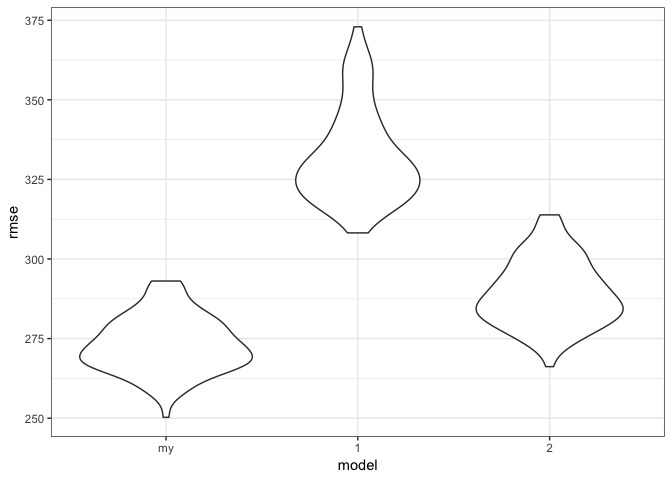
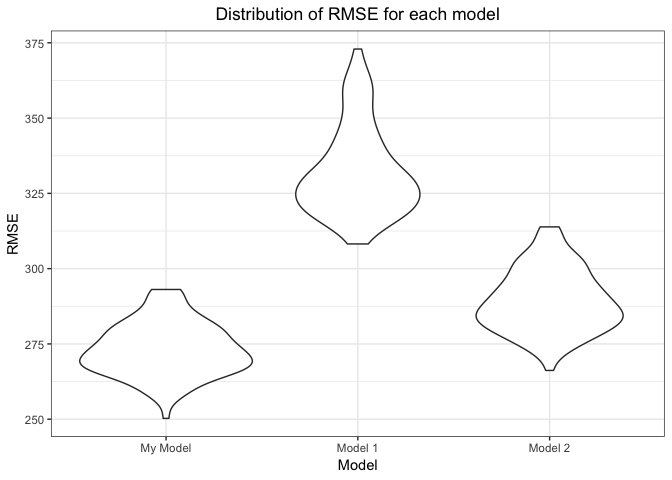
Make a violin plot to show the distribution of rmse for each model.

diff --git a/p8105_hw6_kz2334.md b/p8105_hw6_kz2334.md
@@ -542,11 +542,11 @@ birth_select %>%
   ggplot(aes(x = pred, y = resid)) + geom_point()
 ```
 
-![](p8105_hw6_kz2334_files/figure-markdown_github/2.5-1.png)
+<img src="p8105_hw6_kz2334_files/figure-markdown_github/2.5-1.png" style="display: block; margin: auto;" />
 
 #### Model comparison
 
-Split train and test sets for cross validation.
+Split train and test sets for 100 times cross validation.
 
 ``` r
 cv_df = 
@@ -569,15 +569,24 @@ cv_df_result =
          rmse_2 = map2_dbl(mod_2, test, ~rmse(model = .x, data = .y)))
 ```
 
-Make a plot to show the distribution of rmseeach model.
+------------------------------------------------------------------------
+
+Make a violin plot to show the distribution of rmse for each model.
 
 ``` r
 cv_df_result %>% 
   select(starts_with("rmse")) %>% 
-  gather(key = model, value = rmse) %>% 
-  mutate(model = str_replace(model, "rmse_", ""),
-         model = fct_inorder(model)) %>% 
-  ggplot(aes(x = model, y = rmse)) + geom_violin()
+  gather(key = model, value = rmse) %>%
+  mutate(model = fct_inorder(model)) %>% 
+  ggplot(aes(x = model, y = rmse)) + geom_violin() +
+  scale_x_discrete(labels = c("My Model", "Model 1", "Model 2")) + 
+  labs(
+    title = "Distribution of RMSE for each model",
+    x = "Model",
+    y = "RMSE"
+  ) 
 ```
 
-![](p8105_hw6_kz2334_files/figure-markdown_github/unnamed-chunk-4-1.png)
+<img src="p8105_hw6_kz2334_files/figure-markdown_github/unnamed-chunk-4-1.png" style="display: block; margin: auto;" />
+
+Based on e plot, we can see my model has the smallest RMSE among those models. It shows that adding more reasonable variables or interactions into the model can lead to improvements in predictive accuracy. But in the mean times it also results in model complexity. In my opinion I would chooce my model to predict birth weight.
